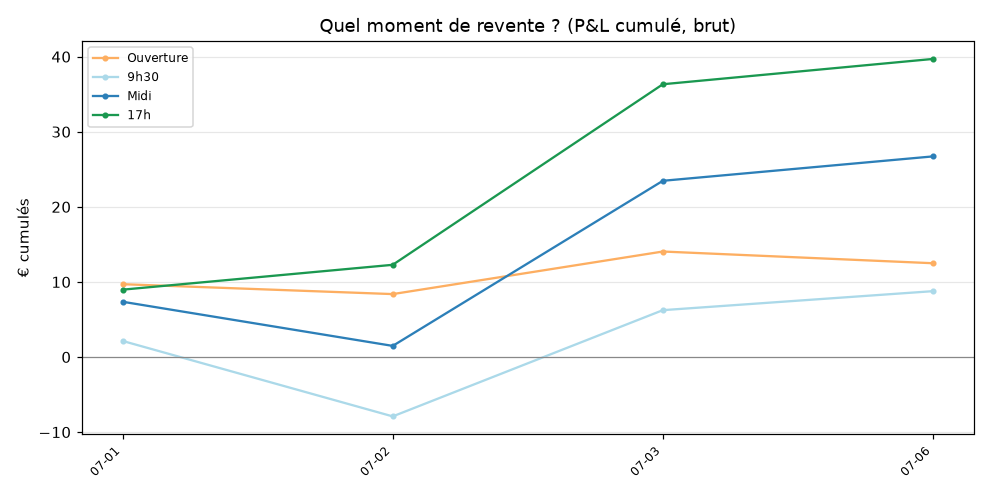
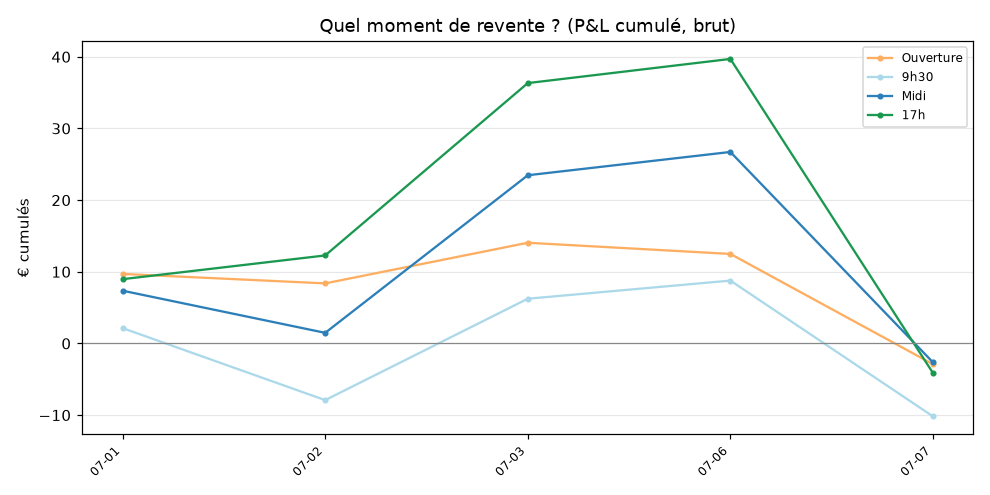
Analyse du 2026-07-07

diff --git a/reports/rapport_2026-07-07.md b/reports/rapport_2026-07-07.md
@@ -1,0 +1,105 @@
+# Rapport du Tuesday 07 July 2026
+
+### Évaluation des achats de la séance précédente
+
+**STMPA.PA — STMicroelectronics**  (acheté le 2026-07-06)
+- Prix d'entrée (clôture veille) : 63.36€
+- Revente à l'ouverture (09:00) : 🔴 61.25€  (-3.33%  soit -16.65€)
+- Revente 1re demi-heure (09:30) : 🔴 60.71€  (-4.18%  soit -20.91€)
+- Revente mi-journée (13:00) : 🔴 59.87€  (-5.51%  soit -27.54€)
+- Revente à 17h : 🔴 58.64€  (-7.45%  soit -37.25€)
+
+**ACA.PA — Crédit Agricole**  (acheté le 2026-07-06)
+- Prix d'entrée (clôture veille) : 17.85€
+- Revente à l'ouverture (09:00) : 🟢 17.89€  (+0.25%  soit +1.26€)
+- Revente 1re demi-heure (09:30) : 🟢 17.92€  (+0.39%  soit +1.96€)
+- Revente mi-journée (13:00) : 🔴 17.79€  (-0.36%  soit -1.82€)
+- Revente à 17h : 🔴 17.61€  (-1.32%  soit -6.58€)
+
+**Total du portefeuille (somme des positions évaluées) :**
+- Ouverture : 🔴 -15.39€
+- 1re demi-heure : 🔴 -18.95€
+- Mi-journée : 🔴 -29.36€
+- 17h : 🔴 -43.83€
+
+### Sélection du soir (marche à blanc)
+
+_Séance parisienne quasi stable (CAC -0.18%) mais la tape US vire au rouge ce soir (S&P -0.64%, Nasdaq -1.41%, VIX +5.8%) : régime de prudence, le gap d'ouverture de demain sera plutôt sous pression, surtout sur la tech. On privilégie une valeur défensive à momentum tranquille, clôturant près de son plus-haut._
+
+**CA.PA — Carrefour**  (conviction 56/100)
+- Achat papier : 500€ au cours ~17h de 16.63€
+- Catalyseur : Rotation défensive vers la distribution alimentaire dans un contexte de tape US rouge, avec clôture au plus-haut (clôt@0.94) confirmant un flux acheteur en fin de séance.
+- Raisonnement : Dans un régime de prudence piloté par un Nasdaq en fort repli, une valeur de conso défensive comme Carrefour est le meilleur bouclier : elle est peu corrélée à la vente de la tech US. Le titre clôture tout près de son plus-haut du jour (0.94) avec un volume correct (0.69x), signe d'un flux acheteur qu'on cherche à prolonger, et la hausse cumulée sur 5j reste mesurée (+2.34%), donc peu de risque de prise de bénéfices massive.
+- ⚠ Risque : Hausse du jour de +4.46% déjà notable qui peut inviter à quelques prises de profits ; l'aversion au risque US pourrait plomber l'ensemble de la cote à l'ouverture malgré le caractère défensif.
+
+_Aucun ordre réel n'a été passé. Simulation uniquement._
+
+### Tableau de bord — synthèse sur tout l'historique
+
+Positions évaluées : **10** (sur 11 enregistrées)
+
+| Scénario de sortie | P&L cumulé | Rendement moyen | Taux de réussite |
+|---|---:|---:|---:|
+| Ouverture (09:00) | 🔴 -2.90€ | -0.06% | 50% (5/10) |
+| 1re demi-heure (09:30) | 🔴 -10.18€ | -0.20% | 50% (5/10) |
+| Mi-journée (13:00) | 🔴 -2.64€ | -0.05% | 50% (5/10) |
+| 17h | 🔴 -4.13€ | -0.08% | 60% (6/10) |
+
+**Meilleure stratégie de sortie a posteriori : Mi-journée (13:00)** (-2.64€ cumulés).
+
+Détail par scénario :
+- Ouverture (09:00) — meilleur : STLAP.PA (+1.63%, 2026-06-30) | pire : STMPA.PA (-3.33%, 2026-07-06)
+- 1re demi-heure (09:30) — meilleur : VRLA.PA (+3.53%, 2026-07-02) | pire : STMPA.PA (-4.18%, 2026-07-06)
+- Mi-journée (13:00) — meilleur : VRLA.PA (+4.05%, 2026-07-02) | pire : STMPA.PA (-5.51%, 2026-07-06)
+- 17h — meilleur : VRLA.PA (+4.66%, 2026-07-02) | pire : STMPA.PA (-7.45%, 2026-07-06)
+
+## Métriques ajustées du risque (scénario 17h, net de frais)
+
+_Basé sur 5 jour(s) évalué(s). Total net : -14.13€._
+
+| Métrique | Valeur | Lecture |
+|---|---:|---|
+| Sharpe (annualisé) | -1.76 | >1 bon, >2 excellent |
+| Sortino (annualisé) | -0.98 | pénalise la baisse |
+| Max drawdown | -45.83€ | pire creux cumulé |
+| Profit factor | 0.69 | gains/pertes, >1,5 solide |
+| Taux de réussite | 80% | jours gagnants |
+| Espérance / jour | -2.83€ | gain moyen par séance |
+| Gain moyen | 7.92€ | sur jours gagnants |
+| Perte moyenne | -45.83€ | sur jours perdants |
+
+**Significativité de l'alpha vs CAC 40 :**
+
+- Alpha moyen/jour : -0.425% (t-stat -0.37)
+- IC 95 % (bootstrap) : [-2.568% ; +1.415%]
+
+⏳ **Échantillon insuffisant** (5 jours avec benchmark). À ce stade rien n'est significatif — les intervalles sont trop larges. Patiente : il faut typiquement plusieurs dizaines de jours.
+
+## Tableau de bord mensuel
+
+_Frais d'aller-retour estimés : 0.20% par position (P&L net au 17h)._
+
+| Mois | Jours | Ouverture | 9h30 | Midi | 17h (brut) | 17h (net) | Réussite 17h |
+|---|---:|---:|---:|---:|---:|---:|---:|
+| 2026-07 | 5 | 🔴 -2.90€ | 🔴 -10.18€ | 🔴 -2.64€ | 🔴 -4.13€ | 🔴 -14.13€ | 80% |
+
+**Alpha vs CAC 40** (même capital « acheté chaque soir ») :
+
+| Mois | Stratégie (ouv.) | CAC overnight | Alpha ouv. | Stratégie (17h) | CAC séance | Alpha 17h |
+|---|---:|---:|---:|---:|---:|---:|
+| 2026-07 | -2.90€ | +4.49€ | 🔴 -7.39€ | -4.13€ | +7.10€ | 🔴 -11.23€ |
+
+_Alpha positif = la sélection bat « acheter le CAC chaque soir ». C'est le vrai juge de la stratégie._
+
+### Détail du mois 2026-07 (jour par jour)
+
+- Meilleur jour : **2026-07-03** +24.05€ (DEC.PA+VRLA.PA)
+- Pire jour : **2026-07-07** -43.83€ (STMPA.PA+ACA.PA)
+
+| Date | Actions | Ouverture | 9h30 | Midi | 17h |
+|---|---|---:|---:|---:|---:|
+| 2026-07-01 | STLAP.PA+VCT.PA | 🟢 +9.70€ | 🟢 +2.14€ | 🟢 +7.36€ | 🟢 +8.97€ |
+| 2026-07-02 | RF.PA+ATE.PA | 🔴 -1.32€ | 🔴 -10.05€ | 🔴 -5.88€ | 🟢 +3.31€ |
+| 2026-07-03 | DEC.PA+VRLA.PA | 🟢 +5.67€ | 🟢 +14.15€ | 🟢 +21.99€ | 🟢 +24.05€ |
+| 2026-07-06 | FNAC.PA+BB.PA | 🔴 -1.56€ | 🟢 +2.53€ | 🟢 +3.25€ | 🟢 +3.37€ |
+| 2026-07-07 | STMPA.PA+ACA.PA | 🔴 -15.39€ | 🔴 -18.95€ | 🔴 -29.36€ | 🔴 -43.83€ |

diff --git a/reports/bilan_mensuel.md b/reports/bilan_mensuel.md
@@ -1,4 +1,4 @@
-# Bilan mensuel — mis à jour le 2026-07-06 17:06
+# Bilan mensuel — mis à jour le 2026-07-07 17:06
 
 ## Tableau de bord mensuel
 
@@ -6,20 +6,20 @@ _Frais d'aller-retour estimés : 0.20% par position (P&L net au 17h)._
 
 | Mois | Jours | Ouverture | 9h30 | Midi | 17h (brut) | 17h (net) | Réussite 17h |
 |---|---:|---:|---:|---:|---:|---:|---:|
-| 2026-07 | 4 | 🟢 +12.49€ | 🟢 +8.77€ | 🟢 +26.72€ | 🟢 +39.70€ | 🟢 +31.70€ | 100% |
+| 2026-07 | 5 | 🔴 -2.90€ | 🔴 -10.18€ | 🔴 -2.64€ | 🔴 -4.13€ | 🔴 -14.13€ | 80% |
 
 **Alpha vs CAC 40** (même capital « acheté chaque soir ») :
 
 | Mois | Stratégie (ouv.) | CAC overnight | Alpha ouv. | Stratégie (17h) | CAC séance | Alpha 17h |
 |---|---:|---:|---:|---:|---:|---:|
-| 2026-07 | +12.49€ | +1.39€ | 🟢 +11.10€ | +39.70€ | -3.70€ | 🟢 +43.40€ |
+| 2026-07 | -2.90€ | +4.49€ | 🔴 -7.39€ | -4.13€ | +7.10€ | 🔴 -11.23€ |
 
 _Alpha positif = la sélection bat « acheter le CAC chaque soir ». C'est le vrai juge de la stratégie._
 
 ### Détail du mois 2026-07 (jour par jour)
 
 - Meilleur jour : **2026-07-03** +24.05€ (DEC.PA+VRLA.PA)
-- Pire jour : **2026-07-02** +3.31€ (RF.PA+ATE.PA)
+- Pire jour : **2026-07-07** -43.83€ (STMPA.PA+ACA.PA)
 
 | Date | Actions | Ouverture | 9h30 | Midi | 17h |
 |---|---|---:|---:|---:|---:|
@@ -27,3 +27,4 @@ _Alpha positif = la sélection bat « acheter le CAC chaque soir ». C'est le vr
 | 2026-07-02 | RF.PA+ATE.PA | 🔴 -1.32€ | 🔴 -10.05€ | 🔴 -5.88€ | 🟢 +3.31€ |
 | 2026-07-03 | DEC.PA+VRLA.PA | 🟢 +5.67€ | 🟢 +14.15€ | 🟢 +21.99€ | 🟢 +24.05€ |
 | 2026-07-06 | FNAC.PA+BB.PA | 🔴 -1.56€ | 🟢 +2.53€ | 🟢 +3.25€ | 🟢 +3.37€ |
+| 2026-07-07 | STMPA.PA+ACA.PA | 🔴 -15.39€ | 🔴 -18.95€ | 🔴 -29.36€ | 🔴 -43.83€ |

diff --git a/reports/metriques.md b/reports/metriques.md
@@ -2,20 +2,22 @@
 
 ## Métriques ajustées du risque (scénario 17h, net de frais)
 
-_Basé sur 4 jour(s) évalué(s). Total net : +31.70€._
+_Basé sur 5 jour(s) évalué(s). Total net : -14.13€._
 
 | Métrique | Valeur | Lecture |
 |---|---:|---|
-| Sharpe (annualisé) | 12.86 | >1 bon, >2 excellent |
-| Sortino (annualisé) | n/d | pénalise la baisse |
-| Max drawdown | 0.00€ | pire creux cumulé |
-| Profit factor | n/d | gains/pertes, >1,5 solide |
-| Taux de réussite | 100% | jours gagnants |
-| Espérance / jour | 7.92€ | gain moyen par séance |
+| Sharpe (annualisé) | -1.76 | >1 bon, >2 excellent |
+| Sortino (annualisé) | -0.98 | pénalise la baisse |
+| Max drawdown | -45.83€ | pire creux cumulé |
+| Profit factor | 0.69 | gains/pertes, >1,5 solide |
+| Taux de réussite | 80% | jours gagnants |
+| Espérance / jour | -2.83€ | gain moyen par séance |
 | Gain moyen | 7.92€ | sur jours gagnants |
-| Perte moyenne | 0.00€ | sur jours perdants |
+| Perte moyenne | -45.83€ | sur jours perdants |
 
 **Significativité de l'alpha vs CAC 40 :**
 
+- Alpha moyen/jour : -0.425% (t-stat -0.37)
+- IC 95 % (bootstrap) : [-2.568% ; +1.415%]
 
-⏳ **Échantillon insuffisant** (1 jours avec benchmark). À ce stade rien n'est significatif — les intervalles sont trop larges. Patiente : il faut typiquement plusieurs dizaines de jours.
+⏳ **Échantillon insuffisant** (5 jours avec benchmark). À ce stade rien n'est significatif — les intervalles sont trop larges. Patiente : il faut typiquement plusieurs dizaines de jours.
